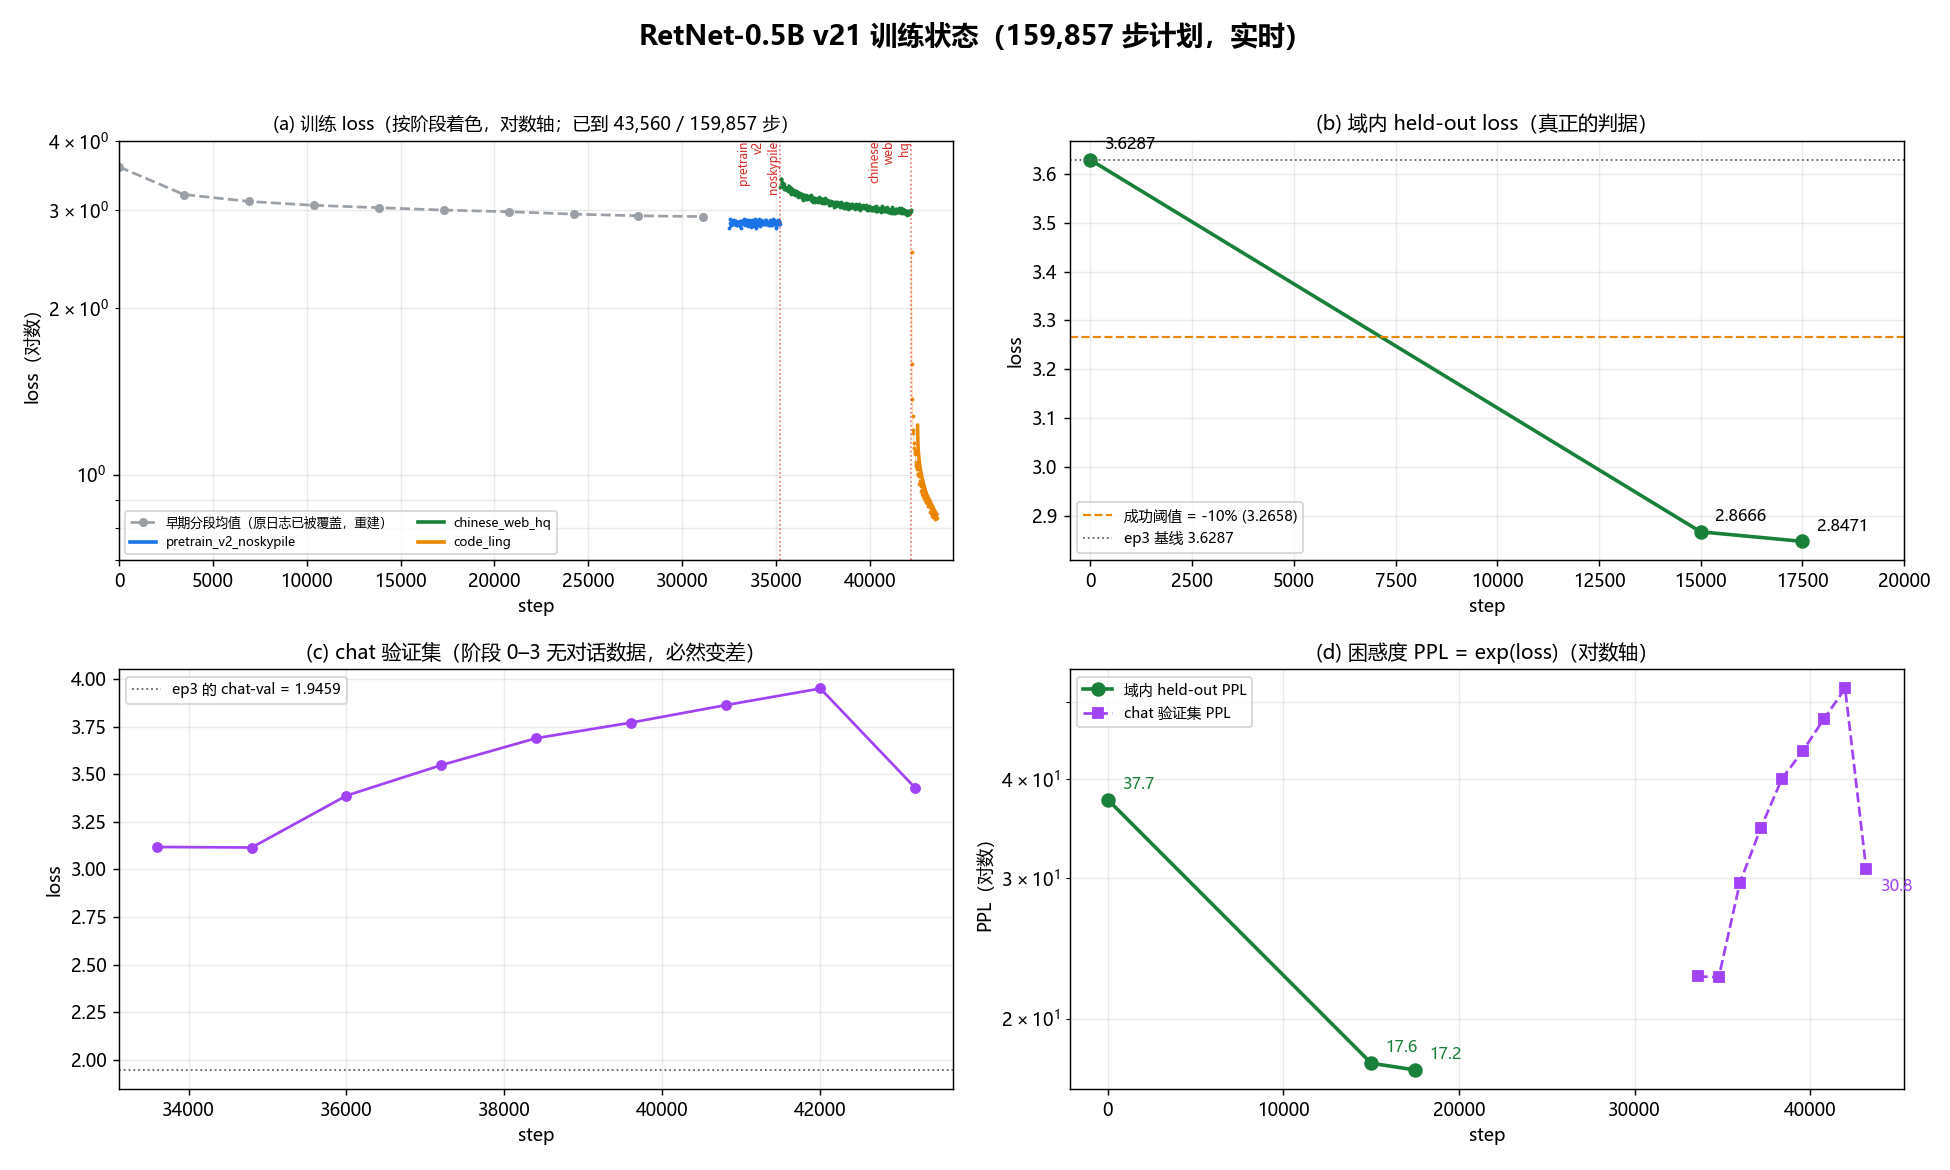
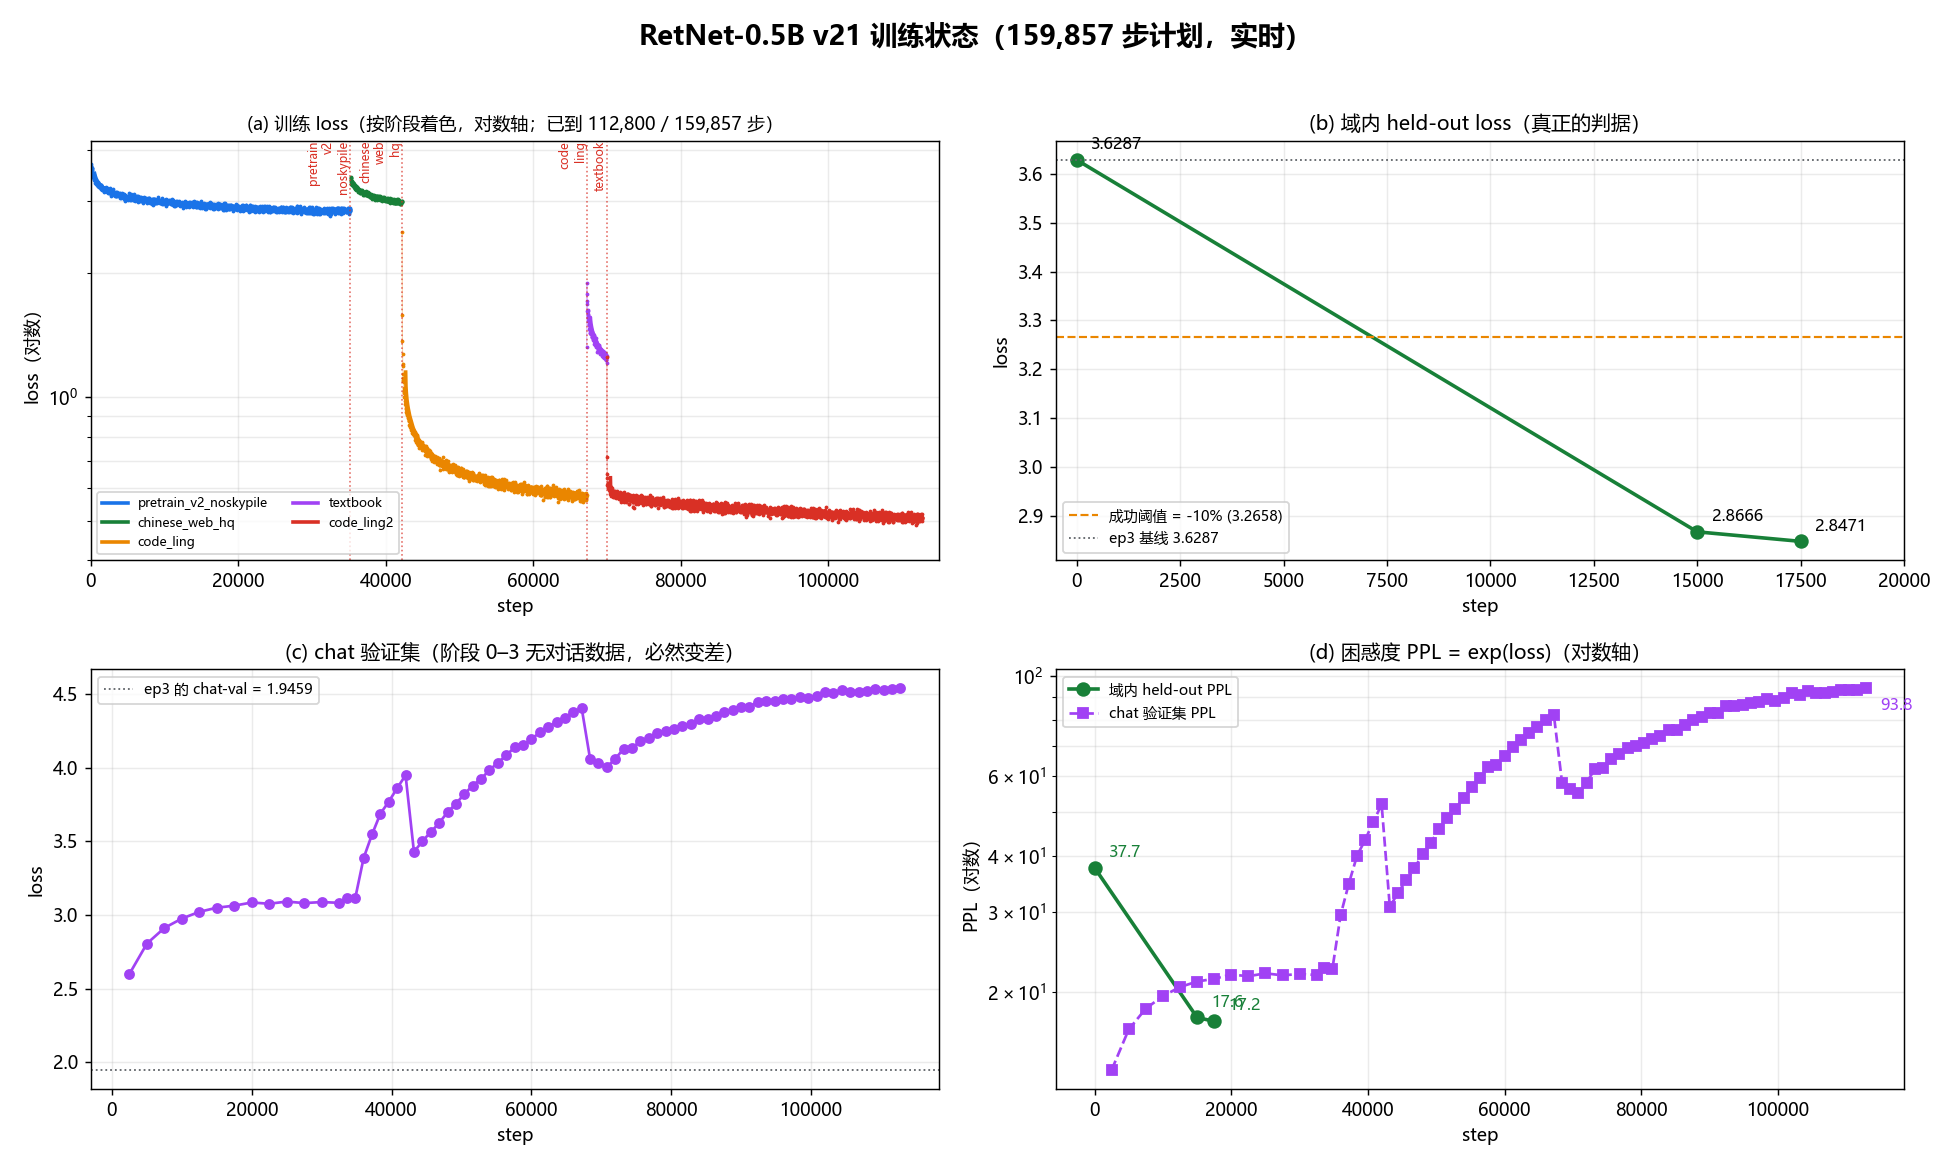
Save the complete loss history and chart from it
The .out log only has records from step 32,520 because of the restart, but the
Trainer keeps log_history in trainer_state.json across resumptions - so the
checkpoint at 112,800 carries 5,640 loss records from step 20 onwards. Export
that to CSV and plot from it, which removes the reconstructed segment the
earlier figure had to use.

Two fixes to the chart: the log axis lower bound was clipping the code stage at
0.5, and the eval panel was still reading the nine records in the .out log
instead of the eighty in the full history.

diff --git a/scripts/export_full_curves.py b/scripts/export_full_curves.py
@@ -1,0 +1,77 @@
+"""从训练日志导出完整曲线（loss / grad_norm / lr / eval），并校验覆盖范围。
+
+为什么单独写一个：之前误判过"resume 覆盖了旧日志"，实际日志是**追加**的。
+这个脚本会打印 step 覆盖范围与空洞，避免再猜。
+
+用法：
+    python scripts/export_full_curves.py logs/linux/v21_ddp.out logs/curves/
+"""
+from __future__ import annotations
+
+import csv
+import json
+import re
+import sys
+from pathlib import Path
+
+LOG = Path(sys.argv[1] if len(sys.argv) > 1 else "logs/linux/v21_ddp.out")
+OUT = Path(sys.argv[2] if len(sys.argv) > 2 else "logs/curves")
+
+STEP_RE = re.compile(r"\|\s*(\d+)/\d+")
+LOSS_RE = re.compile(r"\{'loss': ([0-9.]+)")
+GN_RE = re.compile(r"'grad_norm': ([0-9.eE+-]+)")
+LR_RE = re.compile(r"'learning_rate': ([0-9.eE+-]+)")
+EVAL_RE = re.compile(r"\{'eval_loss': ([0-9.]+)")
+
+
+def main() -> int:
+    raw = LOG.read_text(encoding="utf-8", errors="replace")
+    # tqdm 用 \r 覆盖同一行，先统一拆成行
+    lines = raw.replace("\r", "\n").split("\n")
+
+    train = []          # (step, loss, grad_norm, lr)
+    evals = []          # (step, eval_loss)
+    cur = 0
+    for ln in lines:
+        m = STEP_RE.search(ln)
+        if m:
+            cur = max(cur, int(m.group(1)))
+        ml = LOSS_RE.search(ln)
+        if ml:
+            g = GN_RE.search(ln)
+            r = LR_RE.search(ln)
+            train.append((cur, float(ml.group(1)),
+                          float(g.group(1)) if g else None,
+                          float(r.group(1)) if r else None))
+            continue
+        me = EVAL_RE.search(ln)
+        if me:
+            evals.append((cur, float(me.group(1))))
+
+    OUT.mkdir(parents=True, exist_ok=True)
+    with open(OUT / "train_curve.csv", "w", newline="", encoding="utf-8") as f:
+        w = csv.writer(f)
+        w.writerow(["step", "loss", "grad_norm", "lr"])
+        w.writerows(train)
+    with open(OUT / "eval_curve.csv", "w", newline="", encoding="utf-8") as f:
+        w = csv.writer(f)
+        w.writerow(["step", "eval_loss"])
+        w.writerows(evals)
+
+    # 覆盖度自检：按 1,000 步分桶，看哪些桶没有任何记录
+    if train:
+        lo, hi = train[0][0], train[-1][0]
+        buckets = {}
+        for s, *_ in train:
+            buckets.setdefault(s // 1000, 0)
+            buckets[s // 1000] += 1
+        empty = [b for b in range(lo // 1000, hi // 1000 + 1) if b not in buckets]
+        print(f"  训练记录 {len(train)} 条，step {lo:,} .. {hi:,}")
+        print(f"  无记录的千步桶: {len(empty)} 个" + (f"（如 {[b*1000 for b in empty[:6]]}）" if empty else "（全覆盖）"))
+        print(f"  eval 记录 {len(evals)} 条" + (f"，step {evals[0][0]:,} .. {evals[-1][0]:,}" if evals else ""))
+    print(f"  已写入 {OUT}/train_curve.csv, {OUT}/eval_curve.csv")
+    return 0
+
+
+if __name__ == "__main__":
+    raise SystemExit(main())

diff --git a/scripts/plot_training_status.py b/scripts/plot_training_status.py
@@ -24,8 +24,10 @@ plt.rcParams["font.sans-serif"] = ["Microsoft YaHei", "SimHei", "DejaVu Sans"]
 plt.rcParams["axes.unicode_minus"] = False
 
 # ---------------------------------------------------------------- 读数据
+# 完整历史来自 checkpoint 的 trainer_state.json（log_history），
+# 比 .out 日志更完整：日志在续训时只从 32,520 步开始，而 log_history 从第 20 步就有。
 train_step, train_loss = [], []
-with open(ROOT / "logs/train_curve.csv", encoding="utf-8") as f:
+with open(ROOT / "logs/curves/full_history.csv", encoding="utf-8") as f:
     for r in csv.DictReader(f):
         if r["loss"]:
             train_step.append(int(r["step"]))
@@ -34,7 +36,7 @@ train_step = np.array(train_step)
 train_loss = np.array(train_loss)
 
 eval_step, eval_loss = [], []
-with open(ROOT / "logs/eval_curve.csv", encoding="utf-8") as f:
+with open(ROOT / "logs/curves/full_history.csv", encoding="utf-8") as f:
     for r in csv.DictReader(f):
         if r["eval_loss"]:
             eval_step.append(int(r["step"]))
@@ -65,8 +67,7 @@ for s in plan["stages"]:
 total = acc
 
 # 早前那段（step 0..32,500）的日志被 resume 覆盖了，用当时健康检查记录的分段均值重建
-early_loss = [3.59, 3.20, 3.11, 3.06, 3.03, 3.00, 2.98, 2.95, 2.93, 2.92]
-early_step = np.linspace(0, 31132, len(early_loss))
+# 不再需要重建：log_history 从第 20 步起就是真实记录
 
 # ---------------------------------------------------------------- 画图
 fig, axes = plt.subplots(2, 2, figsize=(15, 9))
@@ -74,8 +75,7 @@ fig.suptitle(f"RetNet-0.5B v21 训练状态（{total:,} 步计划，实时）", 
 
 # (a) 训练 loss
 ax = axes[0, 0]
-ax.plot(early_step, early_loss, "o--", color="#9aa0a6", ms=4,
-        label="早期分段均值（原日志已被覆盖，重建）")
+
 # 按阶段着色：代码段 loss 只有 0.8 左右，混在一起会把预训练段压扁
 edges = [0] + [b for b, _ in bounds]
 colors = ["#1a73e8", "#188038", "#ea8600", "#a142f4", "#d93025", "#12b5cb", "#f439a0"]
@@ -97,7 +97,7 @@ for si in range(len(edges) - 1):
                 label=(name if name not in labelled else None))
         labelled.add(name)
 ax.set_yscale("log")
-ax.set_ylim(0.7, 4.0)
+ax.set_ylim(0.4, 4.2)
 cur = int(train_step[-1]) if len(train_step) else total
 for b, name in bounds:
     if b <= cur * 1.02:
